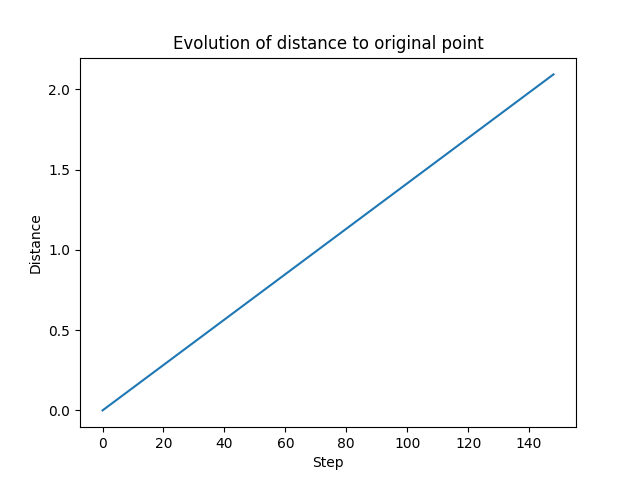
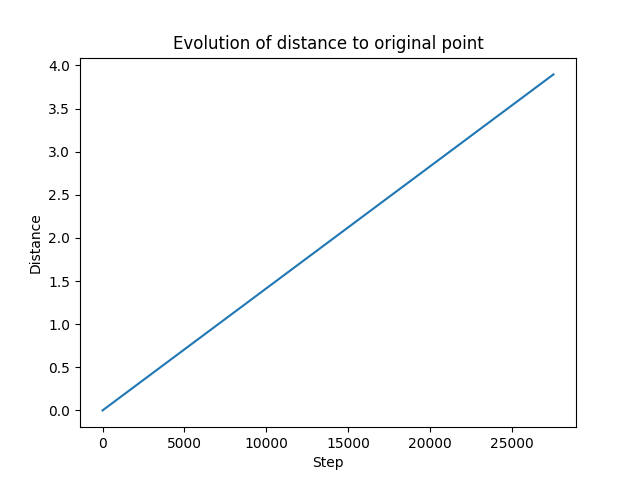
FIX(fgsm): step

diff --git a/mlsecu/adversarial_ml_attack_implem.py b/mlsecu/adversarial_ml_attack_implem.py
@@ -27,6 +27,8 @@ def fgsm_attack_svm_2c(classifier, orig_point, dist_function, step=None, epsilon
         step = 0.01
     i =0
     
+    max_step = 10000
+    step = 0.0001
     eps_evol = [current_eps]
     while orig_class == new_class:
         if current_eps < epsilon and i < max_step:
@@ -36,13 +38,13 @@ def fgsm_attack_svm_2c(classifier, orig_point, dist_function, step=None, epsilon
                         
             new_class = classifier.predict(data_point.reshape(1, -1))[0]
             current_eps = dist_function(data_point,orig_point)
-            attack_info = dict(data_point=data_point, current_eps=current_eps)
+            attack_info = data_point, current_eps
             eps_evol.append(current_eps)
         else:
-            attack_info = dict(data_point=None, current_eps=None)
+            attack_info = (None, None)
             
             if current_eps > epsilon:
-                print("Attack failed: epsilon exceeded")
+                print("Attack failed: epsilon exceeded",current_eps)
             if step >= max_step:
                 print("Attack failed: max step exceeded")
             print("Step:", i)
@@ -56,7 +58,7 @@ def fgsm_attack_svm_2c(classifier, orig_point, dist_function, step=None, epsilon
     ax.set_title("Evolution of distance to original point")
     plt.show()
     fig.savefig("eps_evol.png")
-    return attack_info.values()
+    return attack_info
 
 if __name__ == "__main__":
     
@@ -80,5 +82,5 @@ if __name__ == "__main__":
     print("SVM coef:", clf.coef_[0])
     # orig_point is random point from X_test
     orig_point = X_test[0]
-    attack_info = fgsm_attack_svm_2c(clf, X_test[0], dist_function=dist_func)
+    attack_info = fgsm_attack_svm_2c(clf, X_test[5], dist_function=dist_func)
     print("Attack info:", attack_info)
